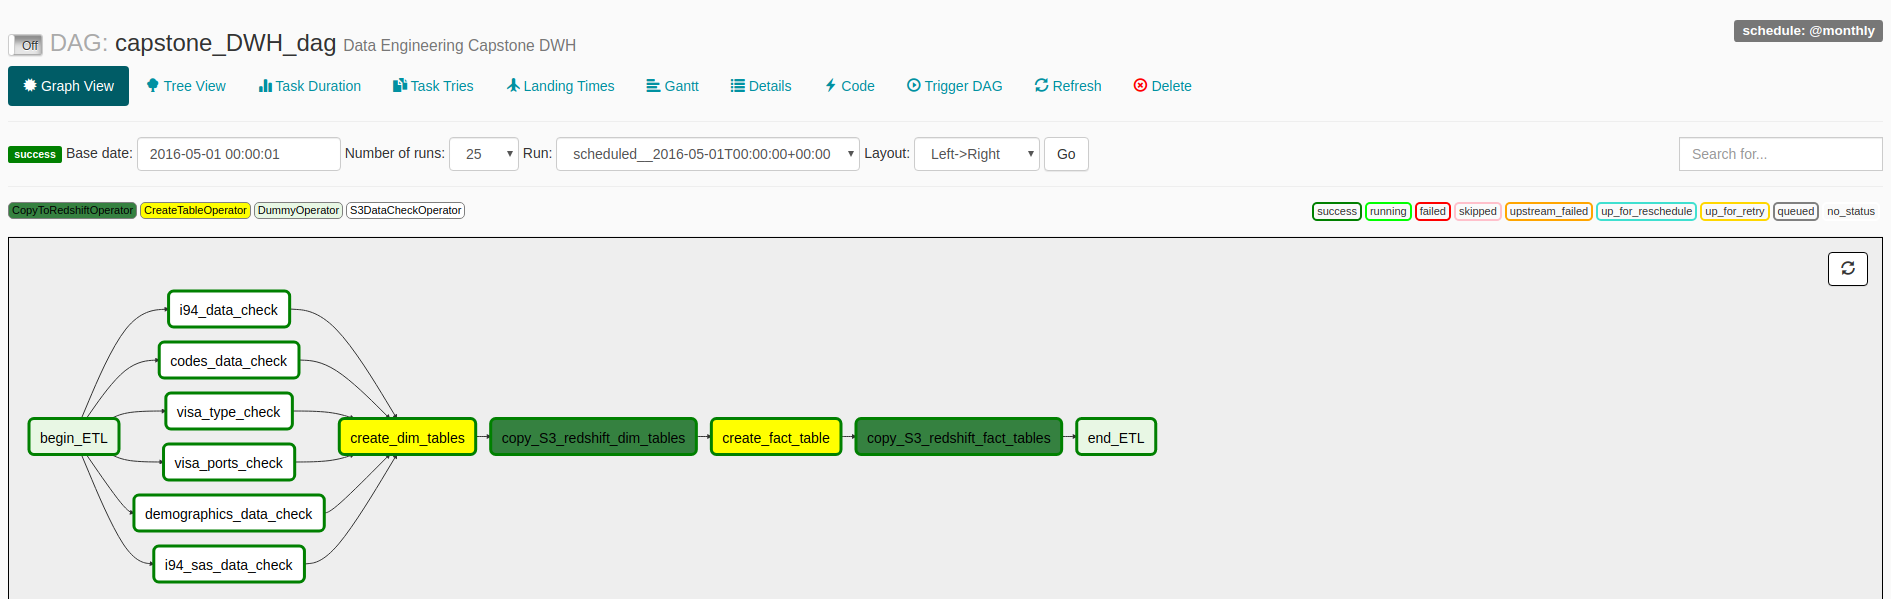
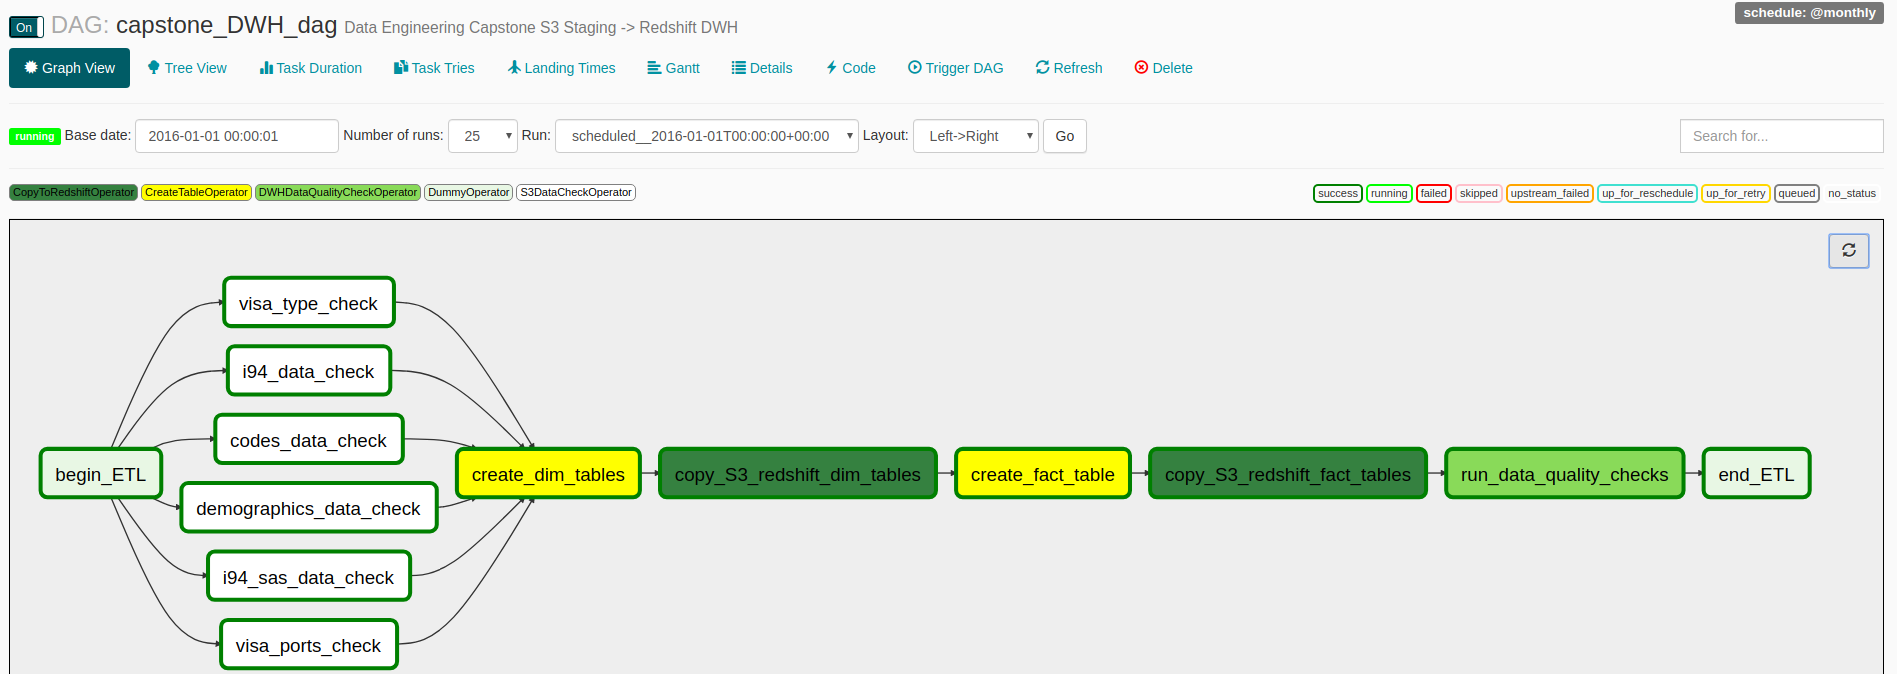
updated DWH quality checks

Changed region(s): [[0.0, 0.0, 0.9984, 1.0], [0.9048, 0.0, 0.9984, 0.0902]]

diff --git a/plugins/operators/DWH_Data_Quality.py b/plugins/operators/DWH_Data_Quality.py
@@ -1,0 +1,38 @@
+from airflow.hooks.postgres_hook import PostgresHook
+from airflow.models import BaseOperator
+from airflow.utils.decorators import apply_defaults
+
+
+class DWHDataQualityCheckOperator(BaseOperator):
+    """
+    Checks the Data Quality of the Tables in AWS Redshift
+
+    Parameters:
+    redshift_conn_id: Connection Id of the Airflow connection to AWS Redshift database (Postgres Type)
+    tables_list: List of table names for which the Quality check has to be performed
+
+    Returns: None
+    """
+
+    ui_color = '#89DA59'
+
+    @apply_defaults
+    def __init__(self,redshift_conn_id="",
+                 tables_list=[],
+                 *args, **kwargs):
+
+        super(DWHDataQualityCheckOperator, self).__init__(*args, **kwargs)
+        self.redshift_conn_id = redshift_conn_id
+        self.tables_list = tables_list
+
+    def execute(self, context):
+
+        self.log.info('Fetching redshift hook')
+        redshift_hook = PostgresHook(postgres_conn_id=self.redshift_conn_id)
+        self.log.info('Checking the Data Quality')
+        for table_name in self.tables_list:
+            records = redshift_hook.get_records(f"SELECT COUNT(*) FROM {table_name}")
+            if len(records) < 1 or len(records[0]) < 1 or records[0][0] < 1:
+                self.log.error(f"Data quality check failed: {table_name} returned no results")
+                raise ValueError(f"Data quality check failed: {table_name} returned no results")
+            self.log.info(f"Data quality on table: {table_name} check passed with {records[0][0]} records")

diff --git a/dags/capstone_dwh_dag.py b/dags/capstone_dwh_dag.py
@@ -1,7 +1,7 @@
 from airflow import DAG
 from airflow.operators.dummy_operator import DummyOperator
 from datetime import datetime, timedelta
-from airflow.operators.capstone_plugin import (S3DataCheckOperator, CreateTableOperator, CopyToRedshiftOperator)
+from airflow.operators.capstone_plugin import (S3DataCheckOperator, CreateTableOperator, CopyToRedshiftOperator, DWHDataQualityCheckOperator)
 from helpers import SqlQueries
 from configparser import ConfigParser
 from airflow.contrib.hooks.aws_hook import AwsHook
@@ -143,9 +143,14 @@ copy_fact_to_redshift = CopyToRedshiftOperator(
     write_mode="append",
     provide_context=True,
 )
-    
+run_quality_checks = DWHDataQualityCheckOperator(
+    task_id='run_data_quality_checks',
+    dag=dag,
+    redshift_conn_id="redshift",
+    tables_list=SqlQueries.tables+['immigration']
+)
 start_operator >> [i94_meta_data_S3Check, i94_sas_data_S3Check,visa_type_S3Check,
                    visa_ports_S3Check, demographics_data_S3Check, codes_data_S3Check]
 [i94_meta_data_S3Check, i94_sas_data_S3Check,visa_type_S3Check,
  visa_ports_S3Check, demographics_data_S3Check, codes_data_S3Check] >> create_empty_dim_tables
-create_empty_dim_tables >> copy_dims_to_redshift >> create_empty_fct_table >> copy_fact_to_redshift >> finish_operator
+create_empty_dim_tables >> copy_dims_to_redshift >> create_empty_fct_table >> copy_fact_to_redshift >> run_quality_checks >> finish_operator

diff --git a/plugins/helpers/sql_queries.py b/plugins/helpers/sql_queries.py
@@ -19,7 +19,7 @@ CREATE TABLE IF NOT EXISTS immigration (
                     age INT,
                     visa_reason_id INT REFERENCES i94visa(visa_id),
                     count INT,
-                    visa_post VARCHAR REFERENCES visa_ports(visa_post_code),
+                    visa_post VARCHAR REFERENCES visa_issue_post(visa_post_code),
                     matched_flag VARCHAR,
                     birth_year INT,
                     gender VARCHAR,
@@ -64,7 +64,7 @@ CREATE TABLE IF NOT EXISTS immigration (
                             elevation_ft FLOAT,
                             continent VARCHAR,
                             municipality VARCHAR,
-                            nearest_city VARCHAR REFERENCES us_cities_demographics(city)
+                            nearest_city VARCHAR REFERENCES us_cities_demographics(city),
                             iata_code VARCHAR,
                             airport_latitude FLOAT,
                             airport_longitude FLOAT,

diff --git a/plugins/operators/__init__.py b/plugins/operators/__init__.py
@@ -2,9 +2,11 @@ from operators.S3_Data_Check import S3DataCheckOperator
 from operators.emr_add_steps import EmrAddStepsOperatorV2
 from operators.create_tables import CreateTableOperator
 from operators.copy_redshift import CopyToRedshiftOperator
+from operators.DWH_Data_Quality import DWHDataQualityCheckOperator
 __all__ = [
     'S3DataCheckOperator',
     'EmrAddStepsOperatorV2',
     'CreateTableOperator',
-    'CopyToRedshiftOperator'
+    'CopyToRedshiftOperator',
+    'DWHDataQualityCheckOperator'
 ]

diff --git a/plugins/__init__.py b/plugins/__init__.py
@@ -13,7 +13,8 @@ class CapstonePlugin(AirflowPlugin):
         operators.S3DataCheckOperator,
         operators.EmrAddStepsOperatorV2,
         operators.CreateTableOperator,
-        operators.CopyToRedshiftOperator
+        operators.CopyToRedshiftOperator,
+        operators.DWHDataQualityCheckOperator
     ]
     helpers = [
         helpers.SqlQueries,

diff --git a/README.md b/README.md
@@ -19,8 +19,20 @@ I have enriched the dataset using the following data sources to make the analysi
 - **US Visa Types**: This data is extracted from the US DHS and Wikipedia which would give information on various visa types offered by US [US Non-immigrant Visa Types](https://www.dhs.gov/immigration-statistics/nonimmigrant/NonimmigrantCOA) and [US Immigrant Visa Types](https://en.m.wikipedia.org/wiki/Visa_policy_of_the_United_States#Classes_of_visas)
 - **Airline Codes**: This data source consists of airlines IATA abbreviations and the country of origin [Airline Codes](https://www.iata.org/en/about/members/airline-list?page=30&search=&ordering=Alphabetical)
 
-#### Creating AWS CloudFormation Stack
+### Project Architecture
+The following project architecture is used for developing the Data Lake in AWS
 
+![Architechture](./AWS_Help/architechture.png)
+
+Using the data from the Data Lake in S3 which is considered as Staging Bucket here the following DWH Star schema is finalized:
+
+![schema](./AWS_Help/data_model.png)
+
+#### Deciding and Creating AWS CloudFormation Stack
+In this project I have decided to use AWS for  building up the Data Lake and DWH. I have used AWS because of the availabiliy of large number of options
+and also having elastic resources at scale for appropriate pricing, this made me to choose AWS.
+I have used `AWS EMR` for processing massive data and `AWS S3` for storing large amounts of data
+ 
 In order to run this project the following resources are needed:
 - `AWS EC2` - a `m4.xlarge` instance is needed for executing `Apache Airflow`
 - `Apache Airflow` - for orchestrating the ETL pipeline
@@ -40,21 +52,9 @@ To start creating the necessary resources the following steps are to be performe
 ![Permissions](./AWS_Help/permissions.PNG)
 4) Finish the `user` creation step and  download the `AWS KEY ID` and `AWS SECRET` into a `csv` file
 5) Create an `EC2 Key Pair` with name **`airflow_key_pair`** for accessing the EC2 instance for using `Airflow`
-6) After finishing the above steps. Fill in the `dwh.cfg` with your details (aws key and secret)
-7) Finally to create the cloud-formation stack use: `python create_resources.py`
 
-
-#### Project Architecture
-The following project architecture is used for developing the Data Lake in AWS
-
-![Architechture](./AWS_Help/architechture.png)
-
-Using the data from the Data Lake in S3 which is considered as Staging Bucket here the following DWH Star schema is finalized:
-
-![schema](./AWS_Help/data_model.png)
-
-##### Setting up Airflow and AWS Connections
-1) Create an S3 bucket for raw data and upload [airflow_server](./airflow_server_v3.yaml) file into the bucket
+#### Setting up Airflow and AWS Connections
+1) Create an S3 bucket for raw data and upload [airflow_server.yaml](./airflow_server_v3.yaml) file into the bucket
 2) Fill the [dwh.cfg](./dwh.cfg) file with your AWS details and also fill the [dwh_airflow.cfg]('./plugins/helpers/dwh_airflow.cfg')
 3) Run the `python create_resources.py` to create the Airflow EC2 instance
     - This script uploads raw data bucket into the bucket with name for eg. `dend-capstone-data` (created in step 1.)
@@ -138,6 +138,9 @@ for obtaining transformed SAS immigration data. This DAG has a `monthly` schedul
 
 ![DWH_dag](./AWS_Help/dwh_dag.png)
 
+#### Results from DWH
+
+
 #### Alternative Data Scenarios
 The project rubric asked how alternative scenarios may be tackled. A discussion of these is included below.
 
@@ -155,7 +158,7 @@ The project rubric asked how alternative scenarios may be tackled. A discussion 
 - I have already chosen Redshift as a DWH which have auto-scaling capabilities and good read performance. To manage efficient user access different `user` groups
 should be defined accordingly. This would restrict write access for the users who would need only read access and for `admin` users full access is provided
 
-#### Conclusion
+### Conclusion
 
 This capstone project was used to demonstrate the steps involved in building a Data Lake and DWH in AWS
 - Creating AWS resources using AWS Cloudformation - IaC
@@ -166,6 +169,6 @@ This capstone project was used to demonstrate the steps involved in building a D
 - Writing custom operators to perform tasks such as S3 Data checks, copying data from S3 to Redshift and EMR add steps
 - Transforming data from various sources into a star schema optimized for the immigration analysts use cases.
 
-##### Code References
+### Code References
 1) [Developing Cloud Formation Script](https://github.com/aws-samples/aws-concurrent-data-orchestration-pipeline-emr-livy.git)
 2) [Data pipeline Orchestration with Airflow, Spark and Livy](https://aws.amazon.com/blogs/big-data/build-a-concurrent-data-orchestration-pipeline-using-amazon-emr-and-apache-livy/)
